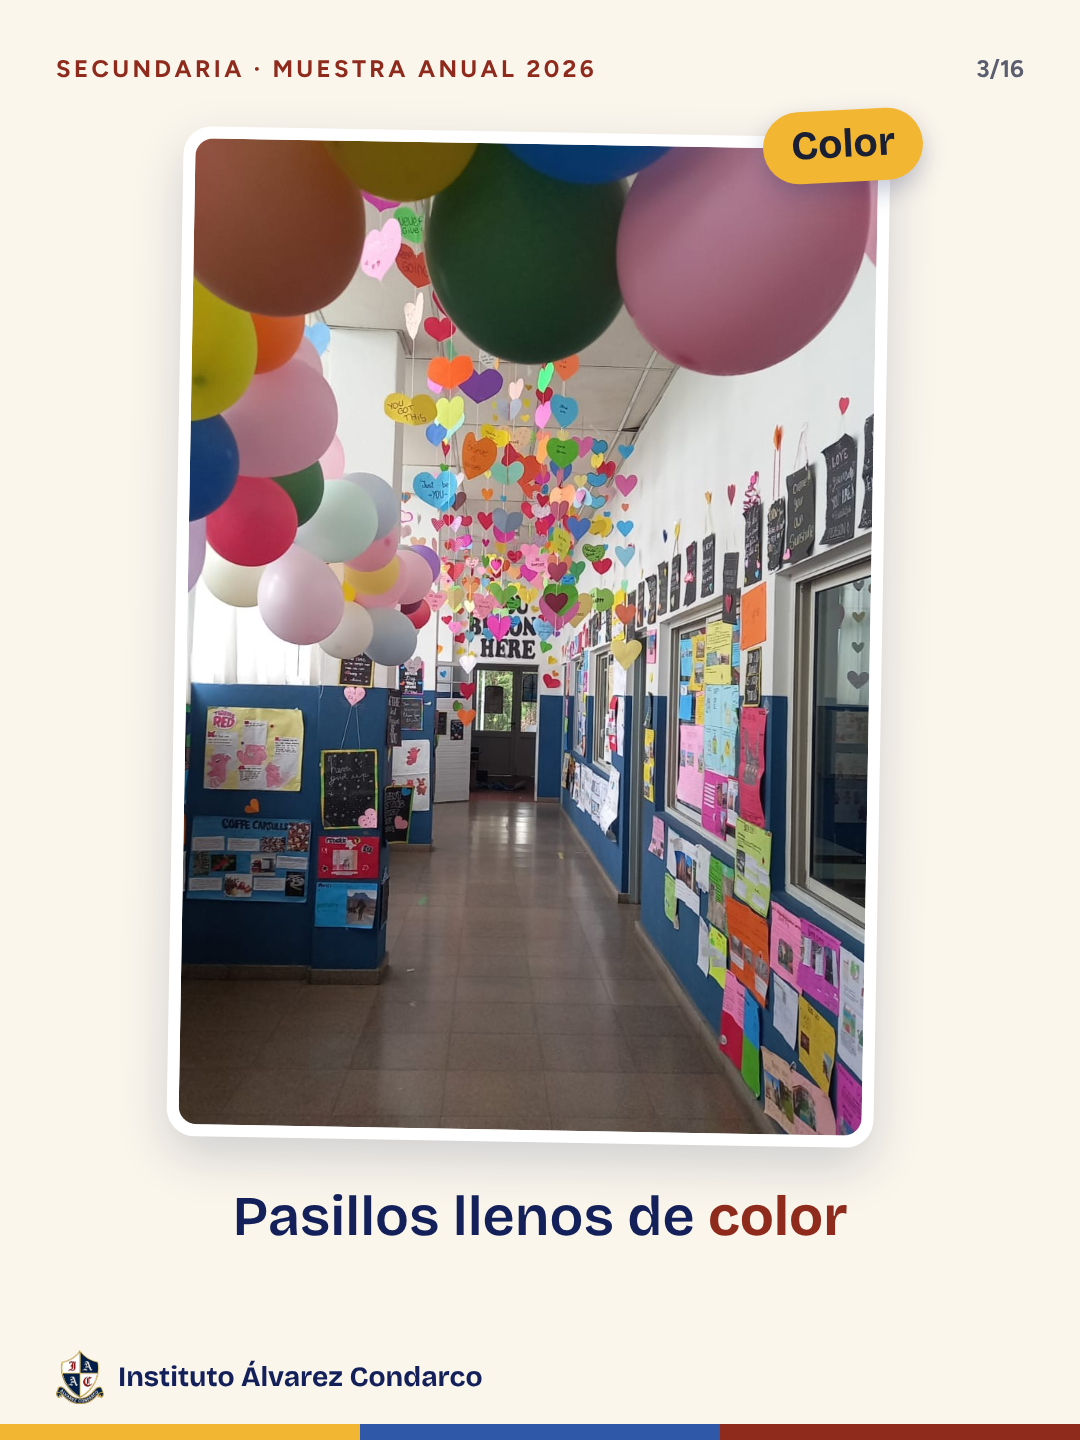
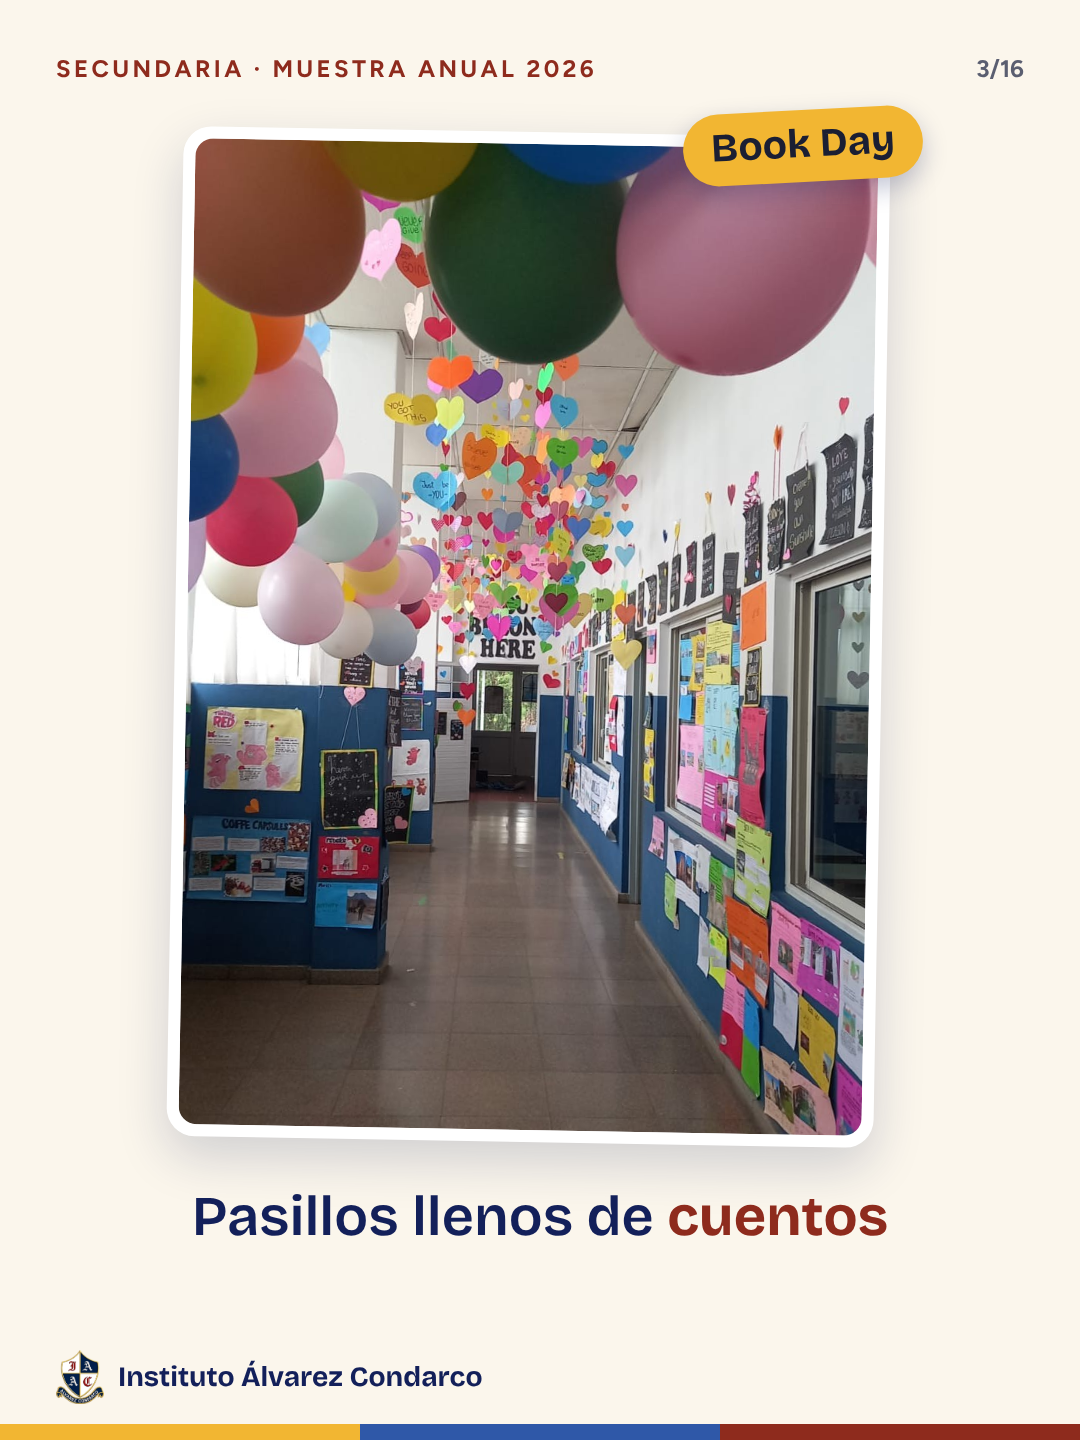
Carrusel Muestra Secundaria: textos y etiquetas según el cronograma
Claude-Session: https://claude.ai/code/session_0159ATbsUYcGchepWZZ2HyWK

Changed region(s): [[0.1833, 0.8125, 0.825, 0.875], [0.6111, 0.0625, 0.8556, 0.1562]]

diff --git a/instagram-reels/src/muestra-sec/PostMuestraSec.tsx b/instagram-reels/src/muestra-sec/PostMuestraSec.tsx
@@ -15,19 +15,19 @@ type Placa = {src: string; w: number; h: number; pos?: string; chip: string; tex
 
 const PLACAS: Placa[] = [
 	{src: '10-publico-familias.jpg', w: 1600, h: 1200, chip: '¡Bienvenidos!', texto: <>Una sala llena de <B>familias</B></>},
-	{src: '03-pasillo-globos.jpg', w: 900, h: 1600, pos: '50% 40%', chip: 'Color', texto: <>Pasillos llenos de <B>color</B></>},
-	{src: '05-you-belong.jpg', w: 900, h: 1600, pos: '50% 45%', chip: 'In English', texto: <>Acá, todos <B>pertenecemos</B></>},
-	{src: '06-bookflix.jpg', w: 1600, h: 900, chip: 'Lectura', texto: <><B>Bookflix</B> y <B>Bookstagram</B>: recomendamos libros</>},
+	{src: '03-pasillo-globos.jpg', w: 900, h: 1600, pos: '50% 40%', chip: 'Book Day', texto: <>Pasillos llenos de <B>cuentos</B></>},
+	{src: '05-you-belong.jpg', w: 900, h: 1600, pos: '50% 45%', chip: '1.º a 3.º año', texto: <>Acá, todos <B>pertenecemos</B></>},
+	{src: '06-bookflix.jpg', w: 1600, h: 900, chip: 'Book Day', texto: <><B>Bookflix</B> y <B>Bookstagram</B>: recomendamos libros</>},
 	{src: '04-mesa-ciencias.jpg', w: 1600, h: 900, chip: 'Ciencia', texto: <>Experimentos y un <B>sistema solar</B> hecho a mano</>},
-	{src: '12-paises.jpg', w: 1600, h: 1200, chip: 'El mundo', texto: <>Un viaje por el <B>mundo</B>: banderas, sabores y trajes</>},
-	{src: '07-acto-natacion.jpg', w: 1200, h: 1600, pos: '50% 50%', chip: 'Nuestro año', texto: <>Repasamos el <B>año</B> juntos</>},
+	{src: '12-paises.jpg', w: 1600, h: 1200, chip: '2.º A y B', texto: <>Feria de los <B>países</B>: banderas, sabores y trajes</>},
+	{src: '07-acto-natacion.jpg', w: 1200, h: 1600, pos: '50% 50%', chip: 'Video institucional', texto: <>Repasamos el <B>año</B> juntos</>},
 	{src: '08-publico-alumnos.jpg', w: 1200, h: 1600, pos: '50% 62%', chip: 'Juntos', texto: <>Todo el Secundario, <B>juntos</B></>},
 	{src: '13-lectura.jpg', w: 900, h: 1600, pos: '50% 35%', chip: 'Voz propia', texto: <>Palabras propias, en <B>voz alta</B></>},
 	{src: '09-teatro.jpg', w: 1200, h: 1600, pos: '50% 62%', chip: 'Teatro', texto: <>¡Arriba el <B>telón</B>!</>},
 	{src: '11-baile.jpg', w: 1600, h: 900, chip: 'Baile', texto: <>¡A <B>bailar</B>!</>},
 	{src: '14-orquesta.jpg', w: 1600, h: 1200, chip: 'Música', texto: <>Música en <B>vivo</B>, frente a todos</>},
-	{src: '16-banda.jpg', w: 1200, h: 1600, pos: '50% 62%', chip: 'Banda', texto: <>Guitarra, bombo, teclado… ¡y <B>voces</B>!</>},
-	{src: '15-cierre-celulares.jpg', w: 1600, h: 900, chip: '¡Final!', texto: <>Un cierre a pura <B>emoción</B></>},
+	{src: '16-banda.jpg', w: 1200, h: 1600, pos: '50% 62%', chip: 'Condarqueños y Plan B', texto: <>¡Nuestras <B>bandas</B> premiadas!</>},
+	{src: '15-cierre-celulares.jpg', w: 1600, h: 900, chip: '2.º y 3.º año', texto: <>Cuadro musical: el <B>celular</B>, con responsabilidad</>},
 ];
 
 const CHIPS: [string, string][] = [
@@ -130,7 +130,7 @@ export const PostMuestraSecFin: React.FC = () => (
 			<div style={{fontFamily: DISPLAY, fontWeight: 700, fontSize: 84, lineHeight: 1.05, color: C.azul}}>
 				¡Gracias, <span style={{color: C.bordo}}>familias</span>!
 			</div>
-			<div style={{fontSize: 36, lineHeight: 1.4, color: C.tintaSuave}}>Y felicitaciones, chicos, por todo lo que hicieron este año.</div>
+			<div style={{fontSize: 36, lineHeight: 1.4, color: C.tintaSuave}}>Cada proyecto refleja el compromiso, la creatividad y el esfuerzo compartido. ¡Sigamos creciendo juntos!</div>
 		</div>
 	</Base>
 );
